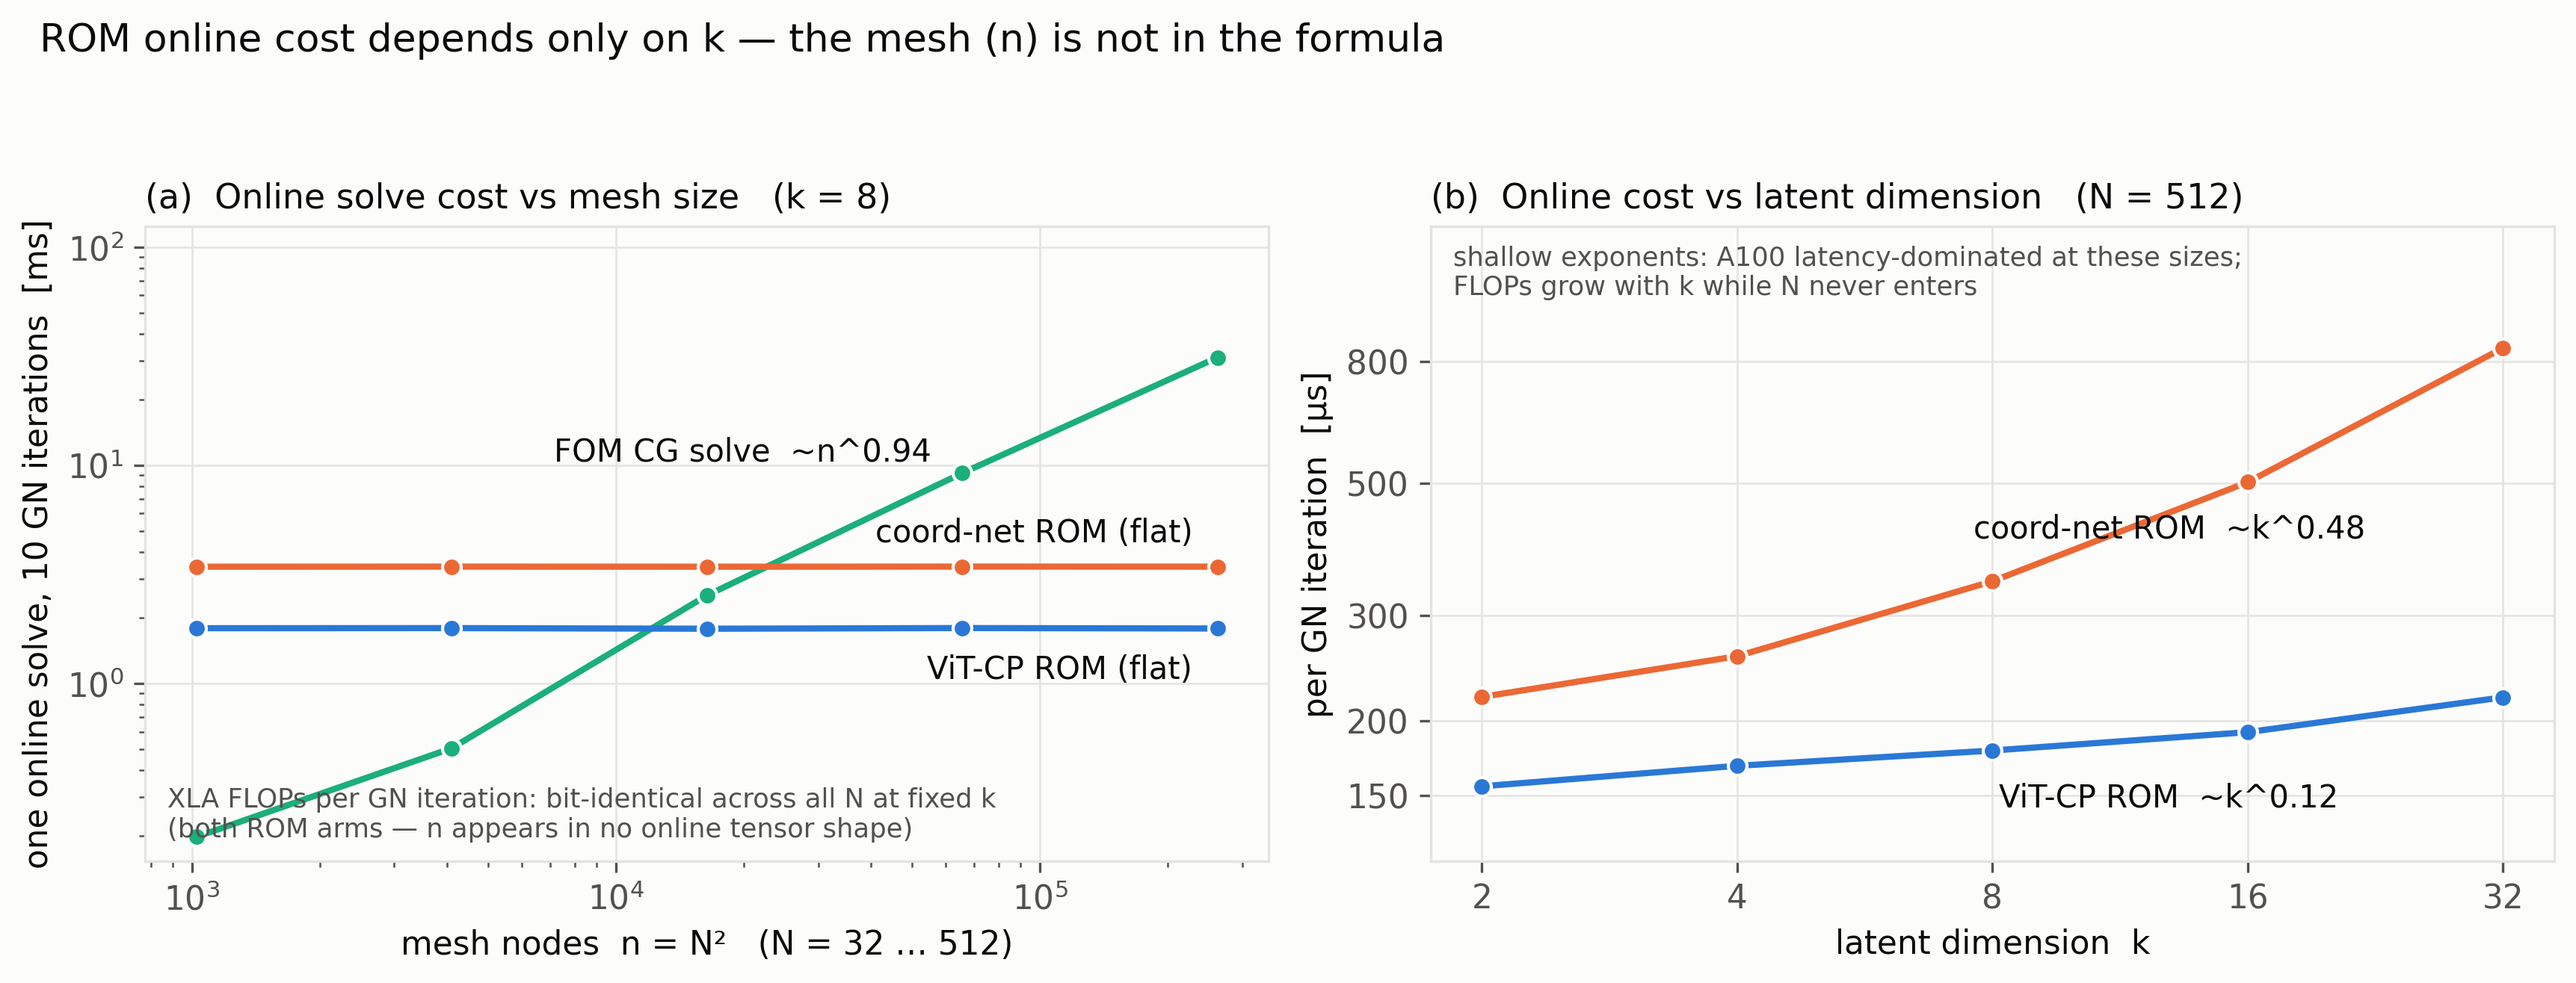
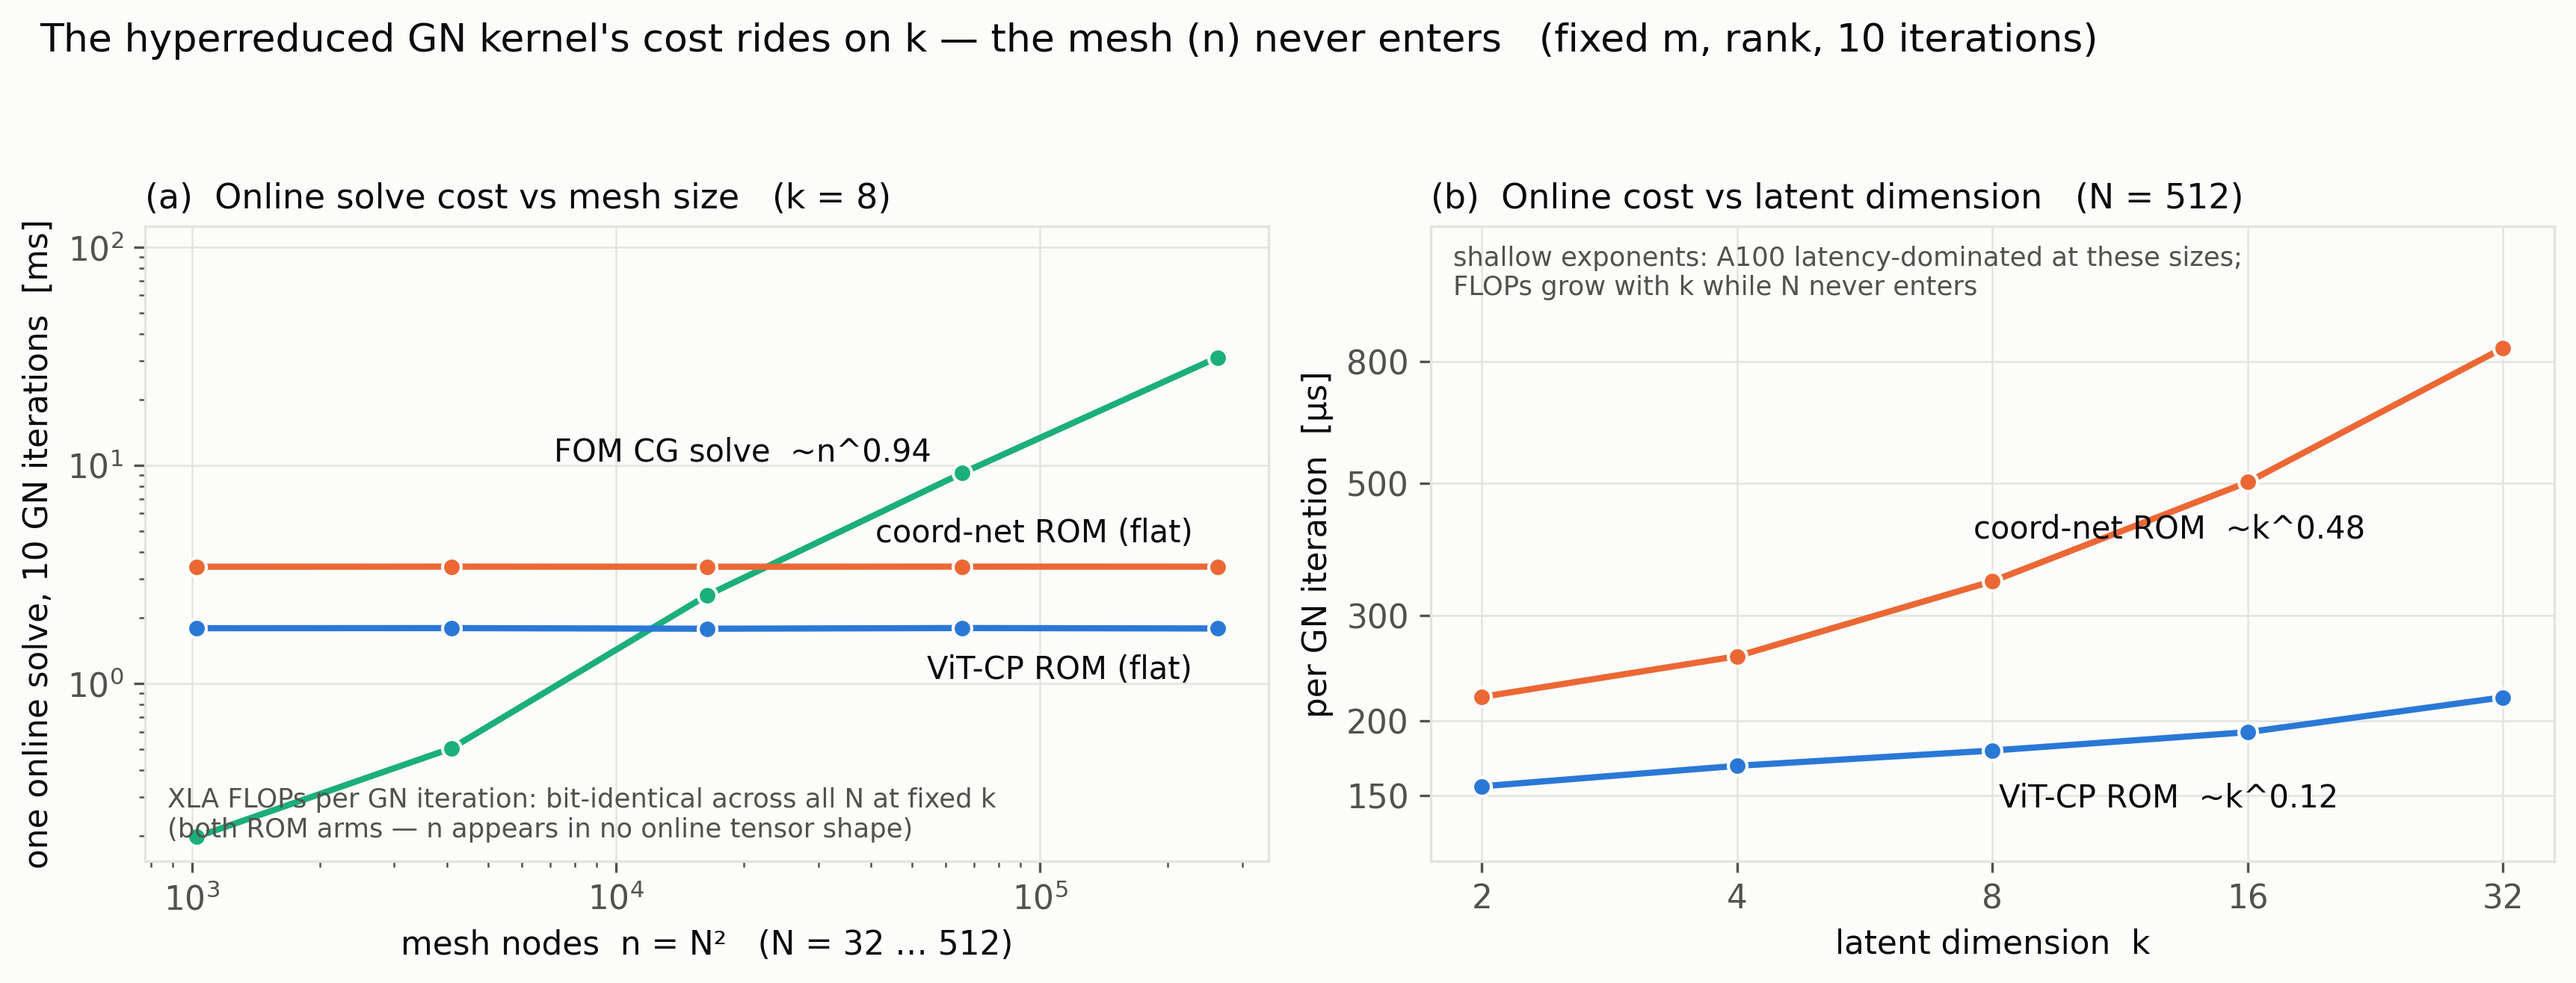
Narrow cost claim to the hyperreduced GN kernel; fix FLOP/contrast errors
Per adversarial review: claim scoped to fixed m/rank/iterations with the
one-shot decode and required-m/iters questions called out; k=4 FLOP anomaly
disclosed for both arms; '4-6 orders below FOM' corrected to ~9-17x at N=512;
cross-arm absolute times marked non-comparable; figure title narrowed.

Changed region(s): [[0.0, 0.0312, 0.8073, 0.0623]]

diff --git a/experiments/cost-scaling-cp/figure_cost_scaling.py b/experiments/cost-scaling-cp/figure_cost_scaling.py
@@ -122,8 +122,9 @@ ax2.text(0.02, 0.97,
          "FLOPs grow with k while N never enters",
          transform=ax2.transAxes, fontsize=8.5, color=INK2, va="top")
 
-fig.suptitle("ROM online cost depends only on k — the mesh (n) is not in the "
-             "formula", fontsize=12.5, color=INK, x=0.02, ha="left", y=0.99)
+fig.suptitle("The hyperreduced GN kernel's cost rides on k — the mesh (n) "
+             "never enters   (fixed m, rank, 10 iterations)",
+             fontsize=12.5, color=INK, x=0.02, ha="left", y=0.99)
 fig.tight_layout(rect=(0, 0, 1, 0.94))
 for ext in ("png", "pdf"):
     fig.savefig(os.path.join(HERE, f"cost_scaling.{ext}"),

diff --git a/experiments/cost-scaling-cp/README.md b/experiments/cost-scaling-cp/README.md
@@ -2,7 +2,14 @@
 
 Hari's question: when the ROM solves a PDE, does the online work depend on the
 mesh size n, or only on the latent dimension k? Answer, measured two ways on
-one A100: **only on k.** The figure is `cost_scaling.png` / `.pdf`.
+one A100: **the hyperreduced GN iteration kernel is n-free — at fixed EQ
+count m, rank, and iteration count, its cost rides on k only.** (Scope
+caveats, per adversarial review: this is the per-iteration kernel; the
+one-shot final decode is O(rank*n) outside the loop, EQ setup is offline, and
+whether the REQUIRED m or iteration count grows with n at fixed accuracy is
+the follow-up tolerance study, not this measurement. Repo configs do co-vary
+rank/m with N — e.g. poisson2d_n256 raises them — so the end-to-end trained
+ROM claim needs the integration experiment.) The figure is `cost_scaling.png` / `.pdf`.
 
 Two arms, both timed on the same GPU (pax106, A100 80GB PCIe):
 
@@ -27,9 +34,11 @@ in node count — at every k in {2,4,8,16,32}. Meanwhile the FOM CG solve grows
 **Compiler FLOPs (the stronger form):** XLA `cost_analysis()` FLOPs per
 compiled GN iteration are bit-identical across all N at every fixed k, in both
 arms. n appears in no online tensor shape, so the compiled program cannot do
-n-dependent work. (Footnote: the CP arm's FLOP counts at k=2 vs k=4 are
-non-monotone — 3.12e5 vs 1.67e5 — an XLA fusion-accounting artifact; wall
-time is monotone in k. Coord-net FLOPs are monotone: 8.4e8 -> 8.9e9.)
+n-dependent work. (Footnote: BOTH arms' k=4 FLOP counts are anomalously low — CP 1.67e5 vs
+3.12e5 at k=2; coord-net 6.2e7 at k=4 vs 8.4e8 at k=2 — an XLA
+fusion-accounting artifact at k=4. Wall time is monotone in k in both arms;
+the across-N bit-identity of FLOPs at every fixed k is unaffected and is the
+load-bearing check.)
 
 **k-dependence (N=512):** per-iteration time grows k^0.12 (CP) / k^0.48
 (coord-net) over k = 2 -> 32. Exponents are shallow because at these sizes an
@@ -41,9 +50,13 @@ the cost curve rides on k while n never enters.
 | ViT-CP ROM | 155 | 168 | 178 | 191 | 219 |
 | coord-net ROM | 220 | 257 | 342 | 502 | 842 |
 
-CP absolute times are lower because its online decoder is an MLP + tiny gather
-against precomputed factors (m=640, rank=128); the coord-net evaluates a 5x256
-FiLM trunk at 5m points (m=100). Both are 4-6 orders below the FOM at N=512.
+Cross-arm absolute times are NOT directly comparable (different m, decoder
+size, solver details: CP uses the real weighted LM loop with line search at
+m=640; the coord-net skeleton uses unweighted normal equations, no line
+search, m=100) — only each arm's own flatness across N is the claim. For
+scale: at N=512, a 10-iteration solve kernel is ~1.8 ms (CP) / ~3.4 ms
+(coord-net) vs 31 ms for one FOM CG solve (~17x / ~9x), a gap that widens
+with n since the FOM grows ~n^0.94 and the kernels are flat.
 
 ## Protocol (defensibility)
 
